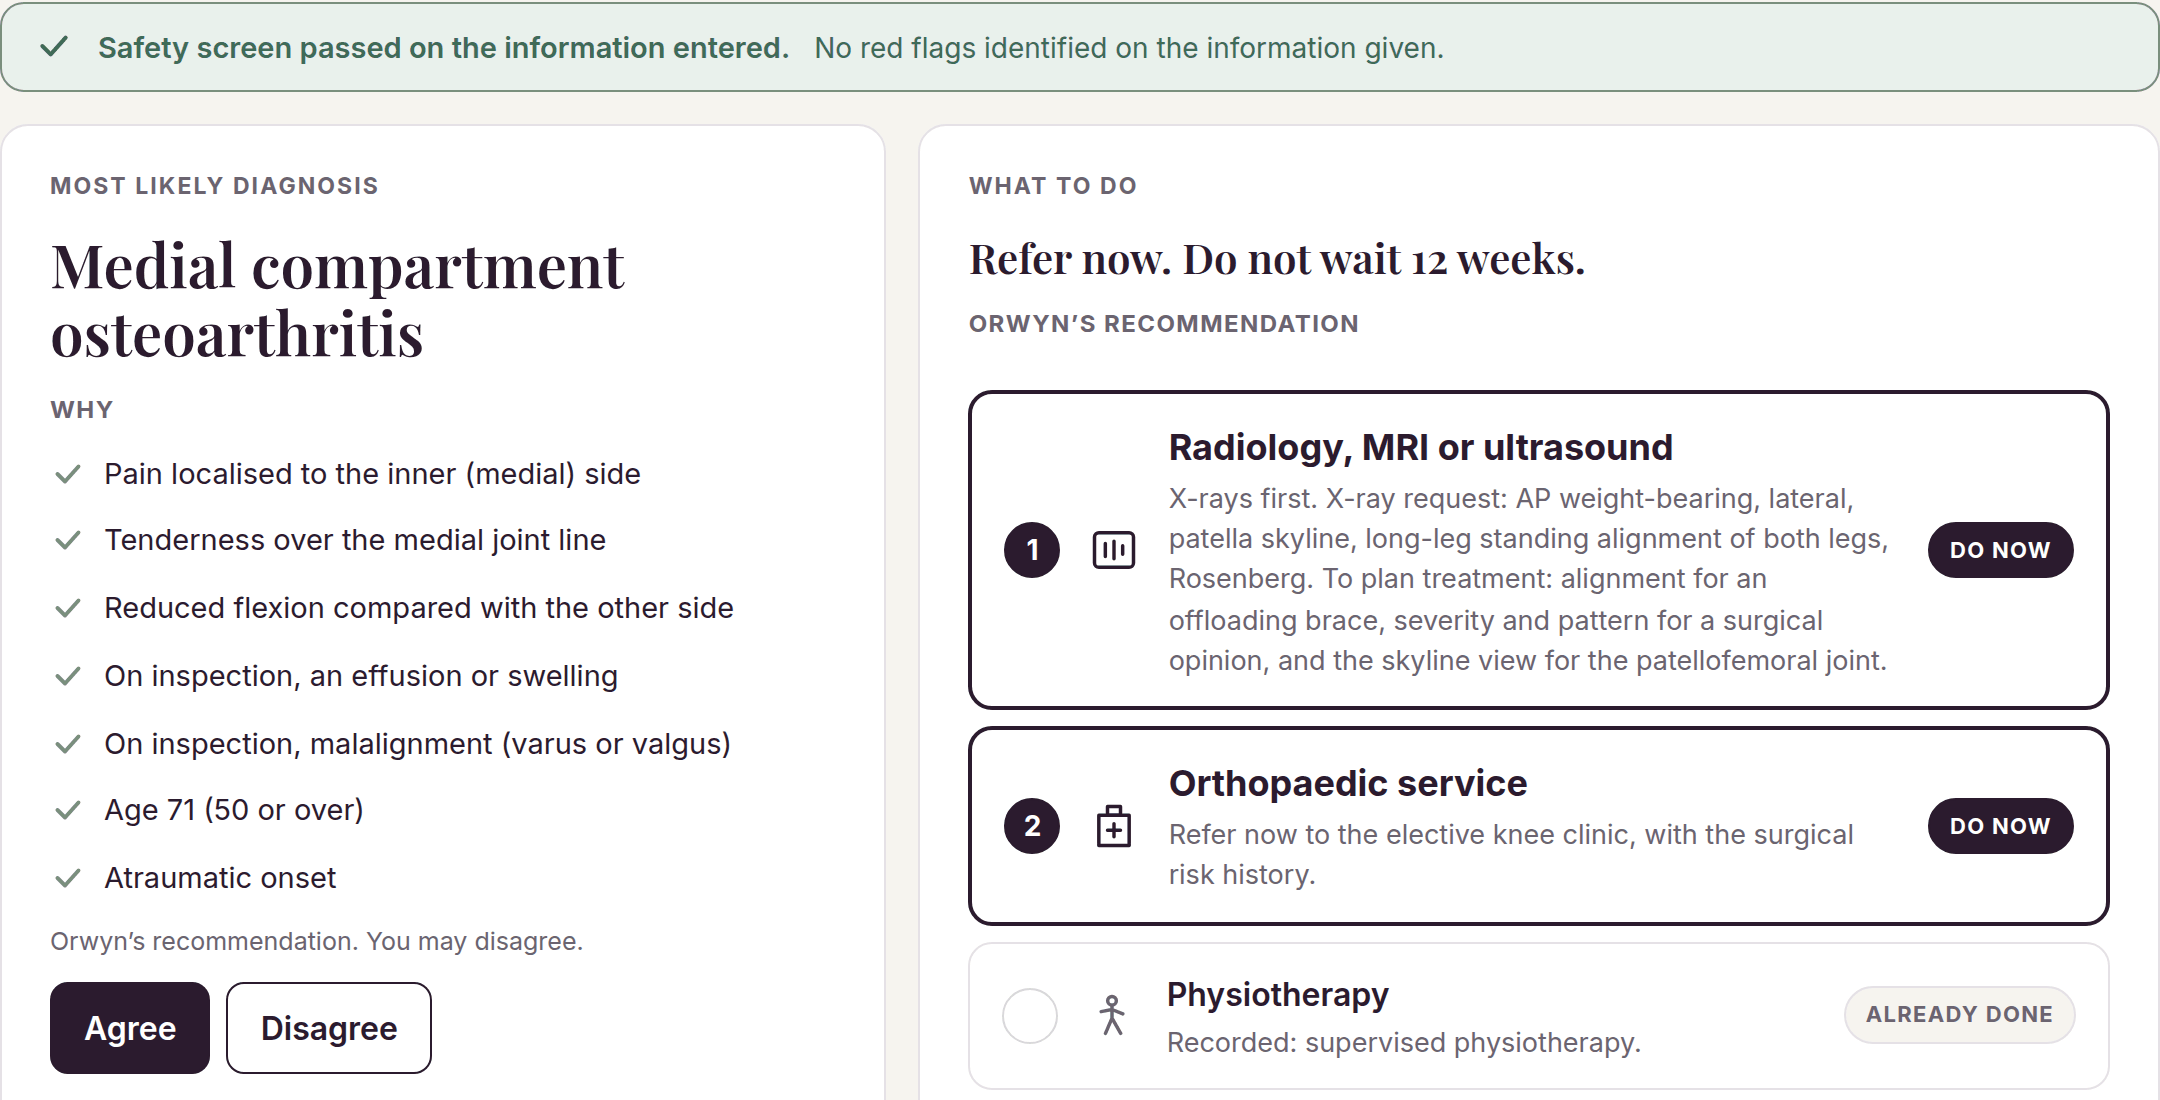
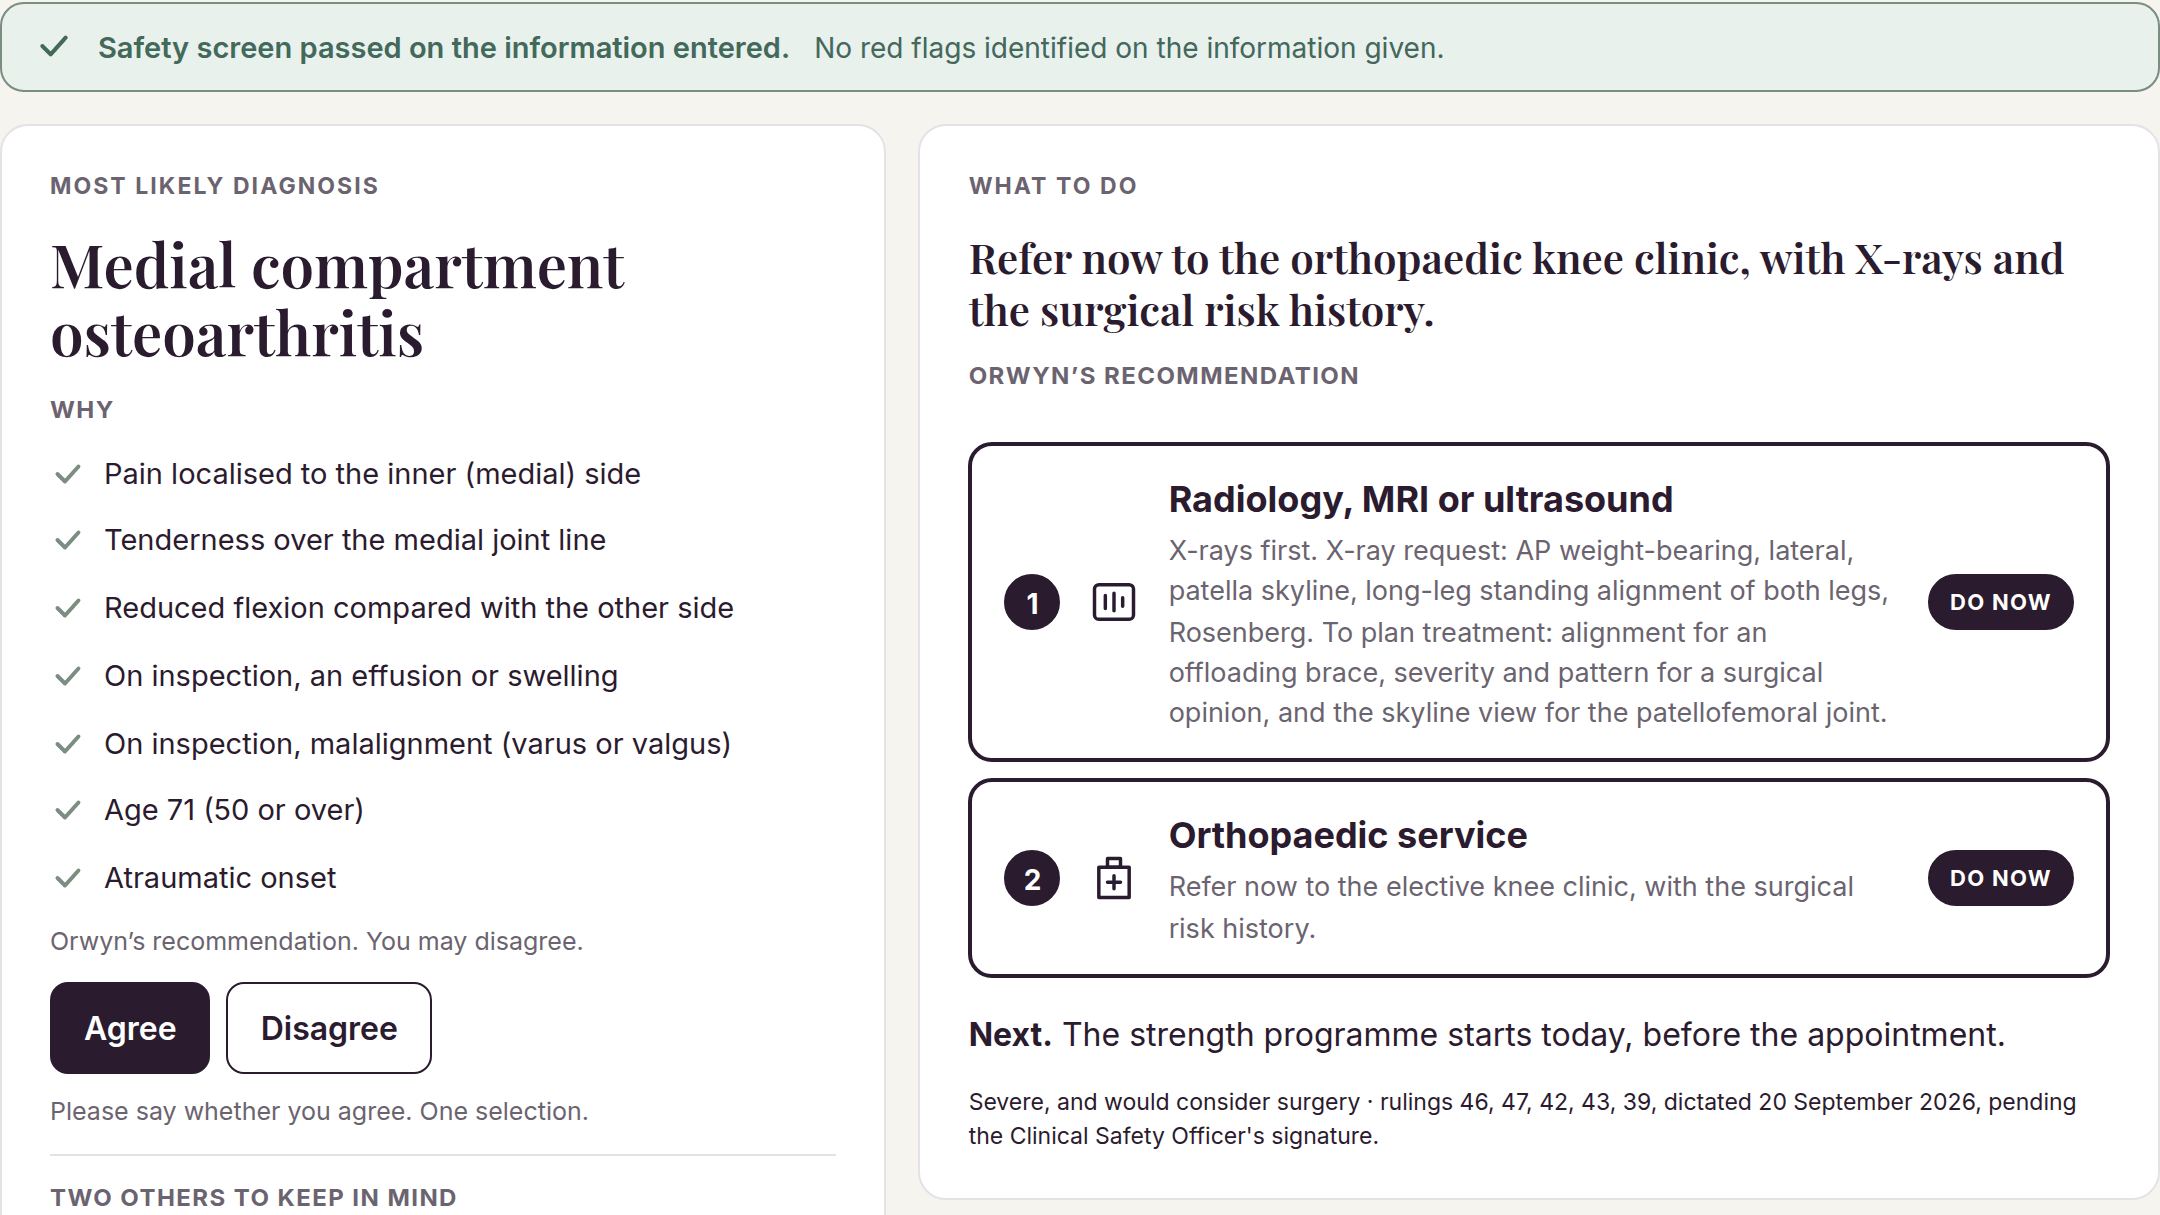
Screenshots: the two pictures retaken from the quieter v0.12 screen
Both retaken from engine tip 1a0854d, after rulings 126, 127 and 145: no
badge, and rows not being done today are off the screen.

- product-decision-1440.png  2160x1010 -> 2160x1105, 84.7 KB -> 98.6 KB
- product-result-severe-osteoarthritis.png  2160x1100 -> 2160x1215,
  105.7 KB -> 124.3 KB

Height attributes corrected on both pages. The osteoarthritis alt text no
longer says physiotherapy and an injection are already done, because those
rows have come off the screen; it now says the strength programme starts
today, before the appointment, which is what the picture shows.

Checked at 375px and desktop: no horizontal overflow, both images at their
declared aspect ratio, both under 300 KB.

diff --git a/what-orwyn-does.html b/what-orwyn-does.html
@@ -171,14 +171,14 @@
     <figure class="device-figure reveal">
       <div class="device">
         <div class="device-bar"><span></span><span></span><span></span></div>
-        <img class="device-shot" loading="lazy" decoding="async" src="/product-decision-1440.png" width="2160" height="1010" alt="The Orwyn clinician tool after a knee injury. It names the most likely diagnosis, an anterior cruciate ligament rupture, with the findings behind it, asks the clinician to agree or disagree, and recommends three actions to do now: request an MRI, start physiotherapy, and refer the same day to the acute knee clinic.">
+        <img class="device-shot" loading="lazy" decoding="async" src="/product-decision-1440.png" width="2160" height="1105" alt="The Orwyn clinician tool after a knee injury. It names the most likely diagnosis, an anterior cruciate ligament rupture, with the findings behind it, asks the clinician to agree or disagree, and recommends three actions to do now: request an MRI, start physiotherapy, and refer the same day to the acute knee clinic.">
       </div>
       <figcaption class="figcap">Real build, synthetic data. <a href="/demo">See the demo</a></figcaption>
     </figure>
     <figure class="device-figure reveal">
       <div class="device">
         <div class="device-bar"><span></span><span></span><span></span></div>
-        <img class="device-shot" loading="lazy" decoding="async" src="/product-result-severe-osteoarthritis.png" width="2160" height="1100" alt="The Orwyn clinician tool for severe knee osteoarthritis in a patient who would consider surgery. It recommends X-rays with the views listed and a referral now to the elective knee clinic, and shows that physiotherapy and an injection are already done.">
+        <img class="device-shot" loading="lazy" decoding="async" src="/product-result-severe-osteoarthritis.png" width="2160" height="1215" alt="The Orwyn clinician tool for severe knee osteoarthritis in a patient who would consider surgery. It recommends X-rays with the views listed and a referral now to the elective knee clinic, and says the strength programme starts today, before the appointment.">
       </div>
       <figcaption class="figcap">The answer first, with the reasons shown. The clinician agrees or disagrees, and decides.</figcaption>
     </figure>

diff --git a/index.html b/index.html
@@ -202,7 +202,7 @@
     <figure class="device-figure reveal">
       <div class="device">
         <div class="device-bar"><span></span><span></span><span></span></div>
-        <img class="device-shot" loading="lazy" decoding="async" src="/product-decision-1440.png" width="2160" height="1010" alt="The Orwyn clinician tool after a knee injury. It names the most likely diagnosis, an anterior cruciate ligament rupture, with the findings behind it, asks the clinician to agree or disagree, and recommends three actions to do now: request an MRI, start physiotherapy, and refer the same day to the acute knee clinic.">
+        <img class="device-shot" loading="lazy" decoding="async" src="/product-decision-1440.png" width="2160" height="1105" alt="The Orwyn clinician tool after a knee injury. It names the most likely diagnosis, an anterior cruciate ligament rupture, with the findings behind it, asks the clinician to agree or disagree, and recommends three actions to do now: request an MRI, start physiotherapy, and refer the same day to the acute knee clinic.">
       </div>
       <figcaption class="figcap">Real build, synthetic data. <a href="/demo">See the demo</a></figcaption>
     </figure>
